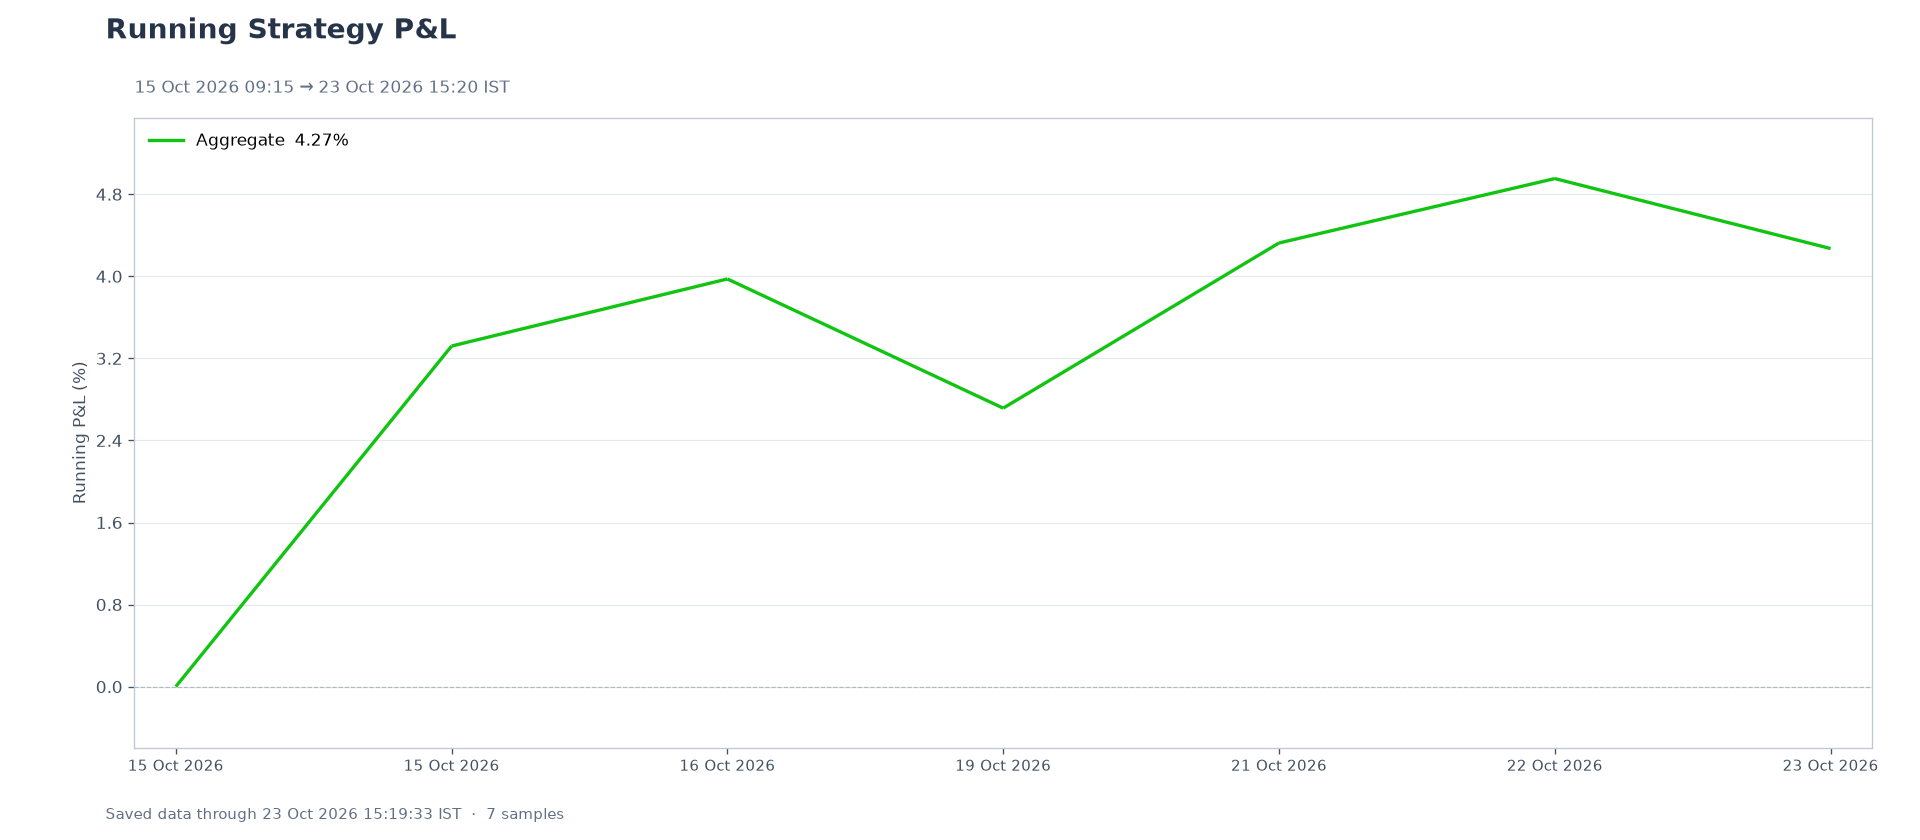
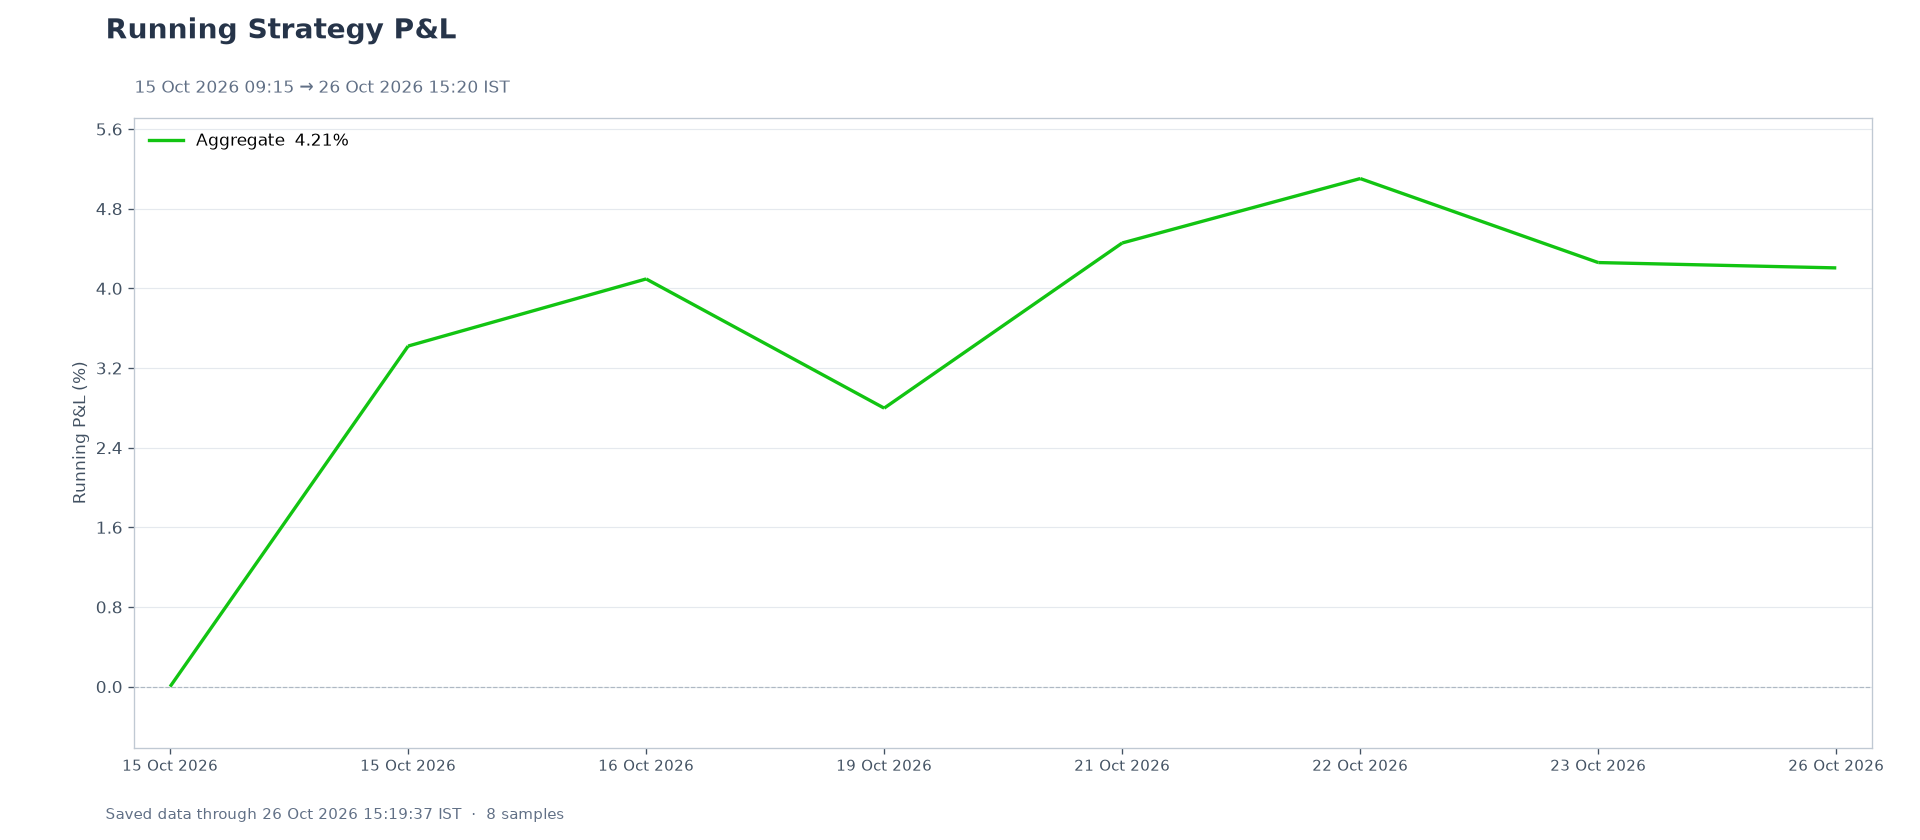
Nabz report 2026-10-26

diff --git a/content/daily/20261026.md b/content/daily/20261026.md
@@ -1,0 +1,9 @@
+---
+title: "20261026"
+date: 2026-10-26T15:20:00+05:30
+slug: "20261026"
+folder: "20261026"
+iso_date: "2026-10-26"
+preview: false
+strategy_today: "1520-strategy-today-REL.png"
+---

diff --git a/content/i/89719cbc6a3ec6f38e78.md b/content/i/89719cbc6a3ec6f38e78.md
@@ -1,0 +1,4 @@
+---
+title: "Today's P&L"
+image: "i/89719cbc6a3ec6f38e78.png"
+---
